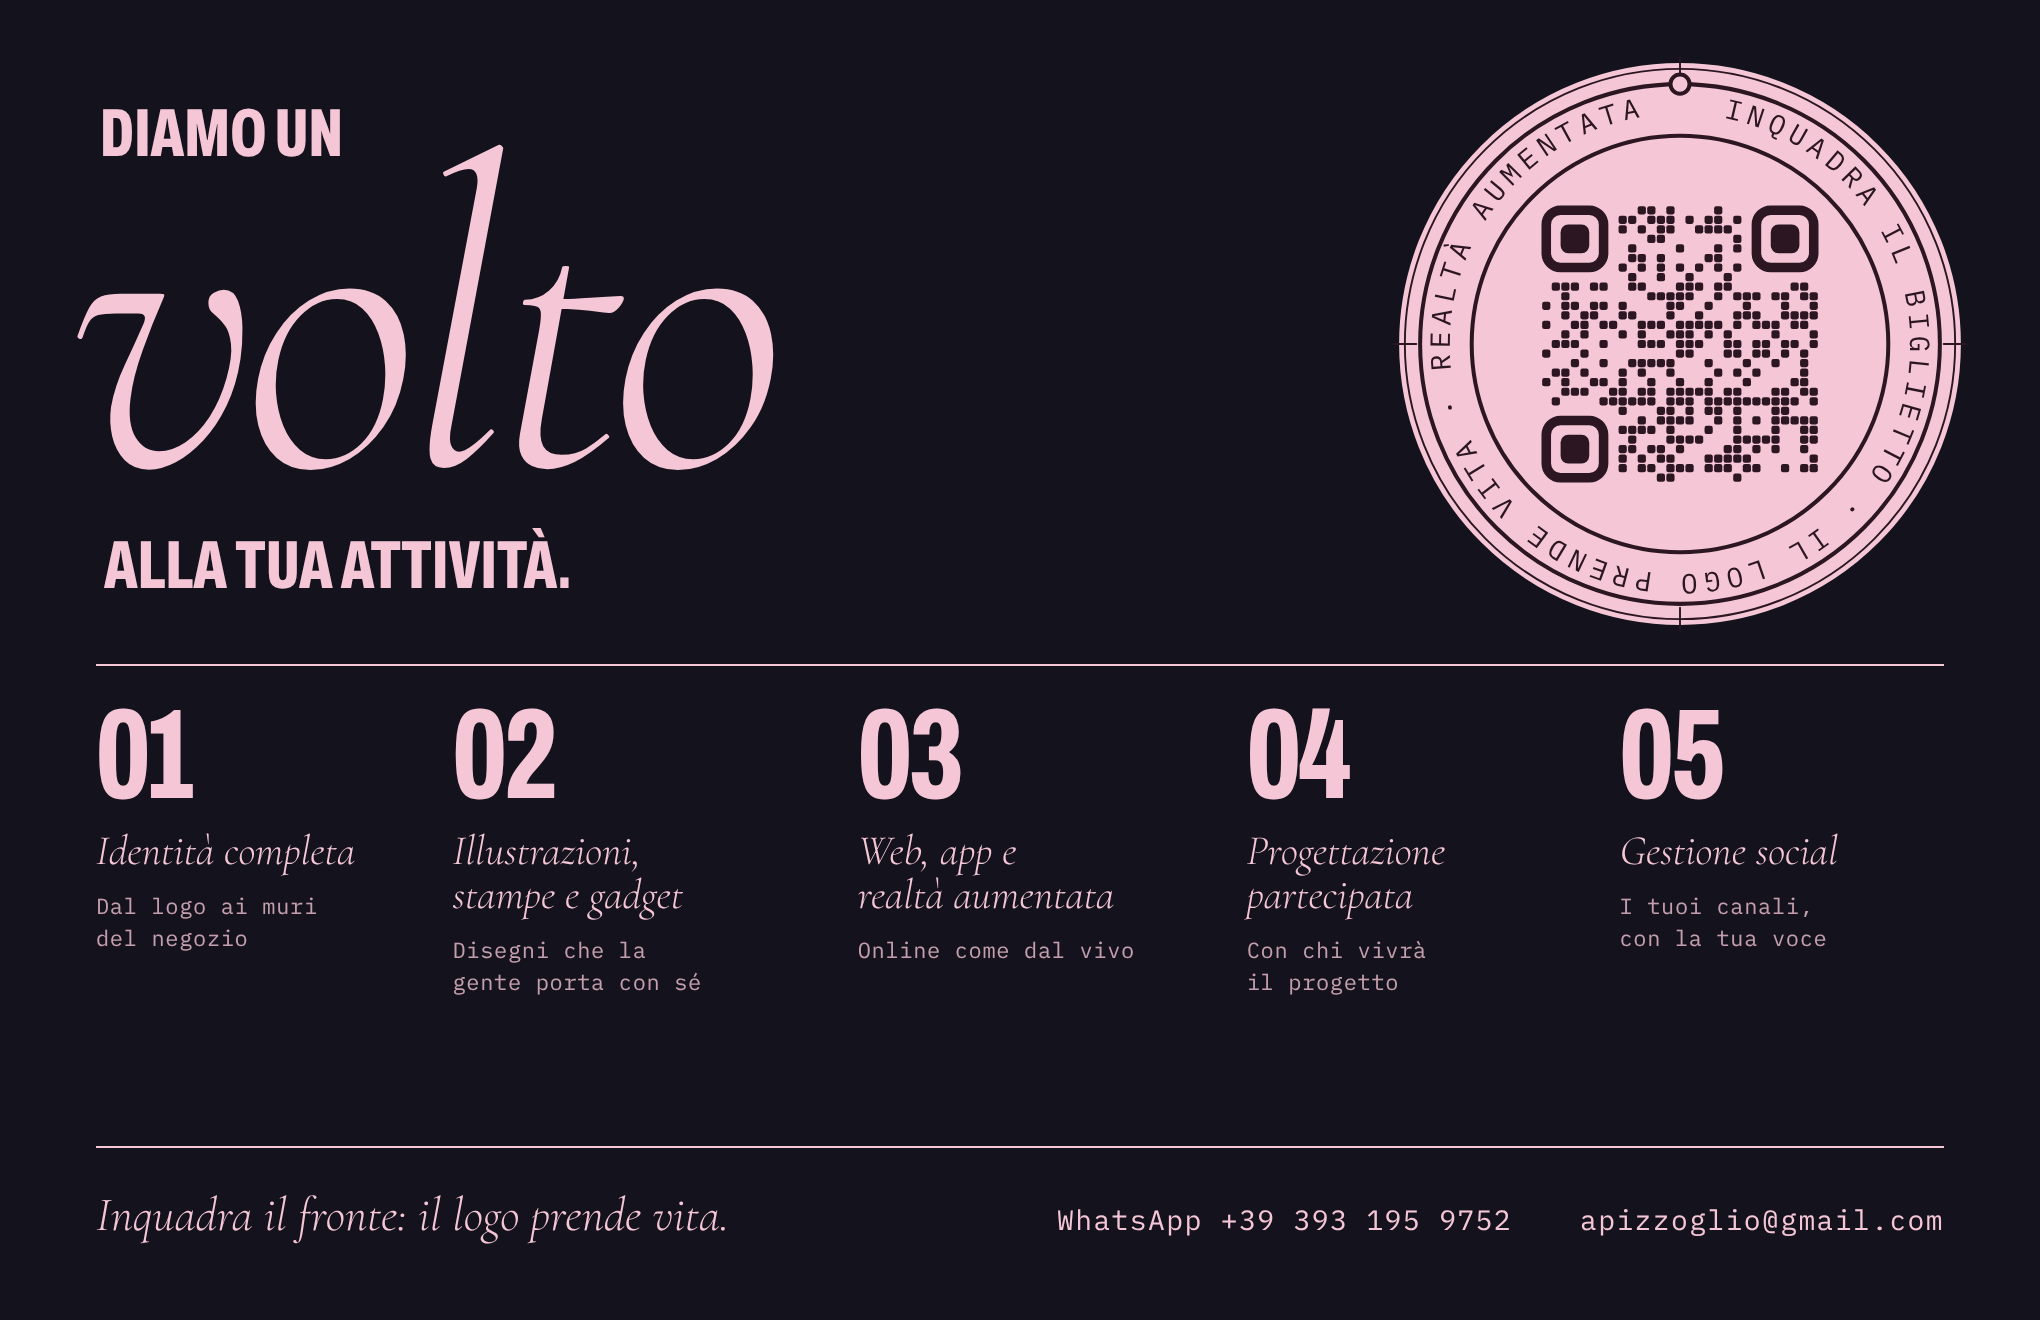
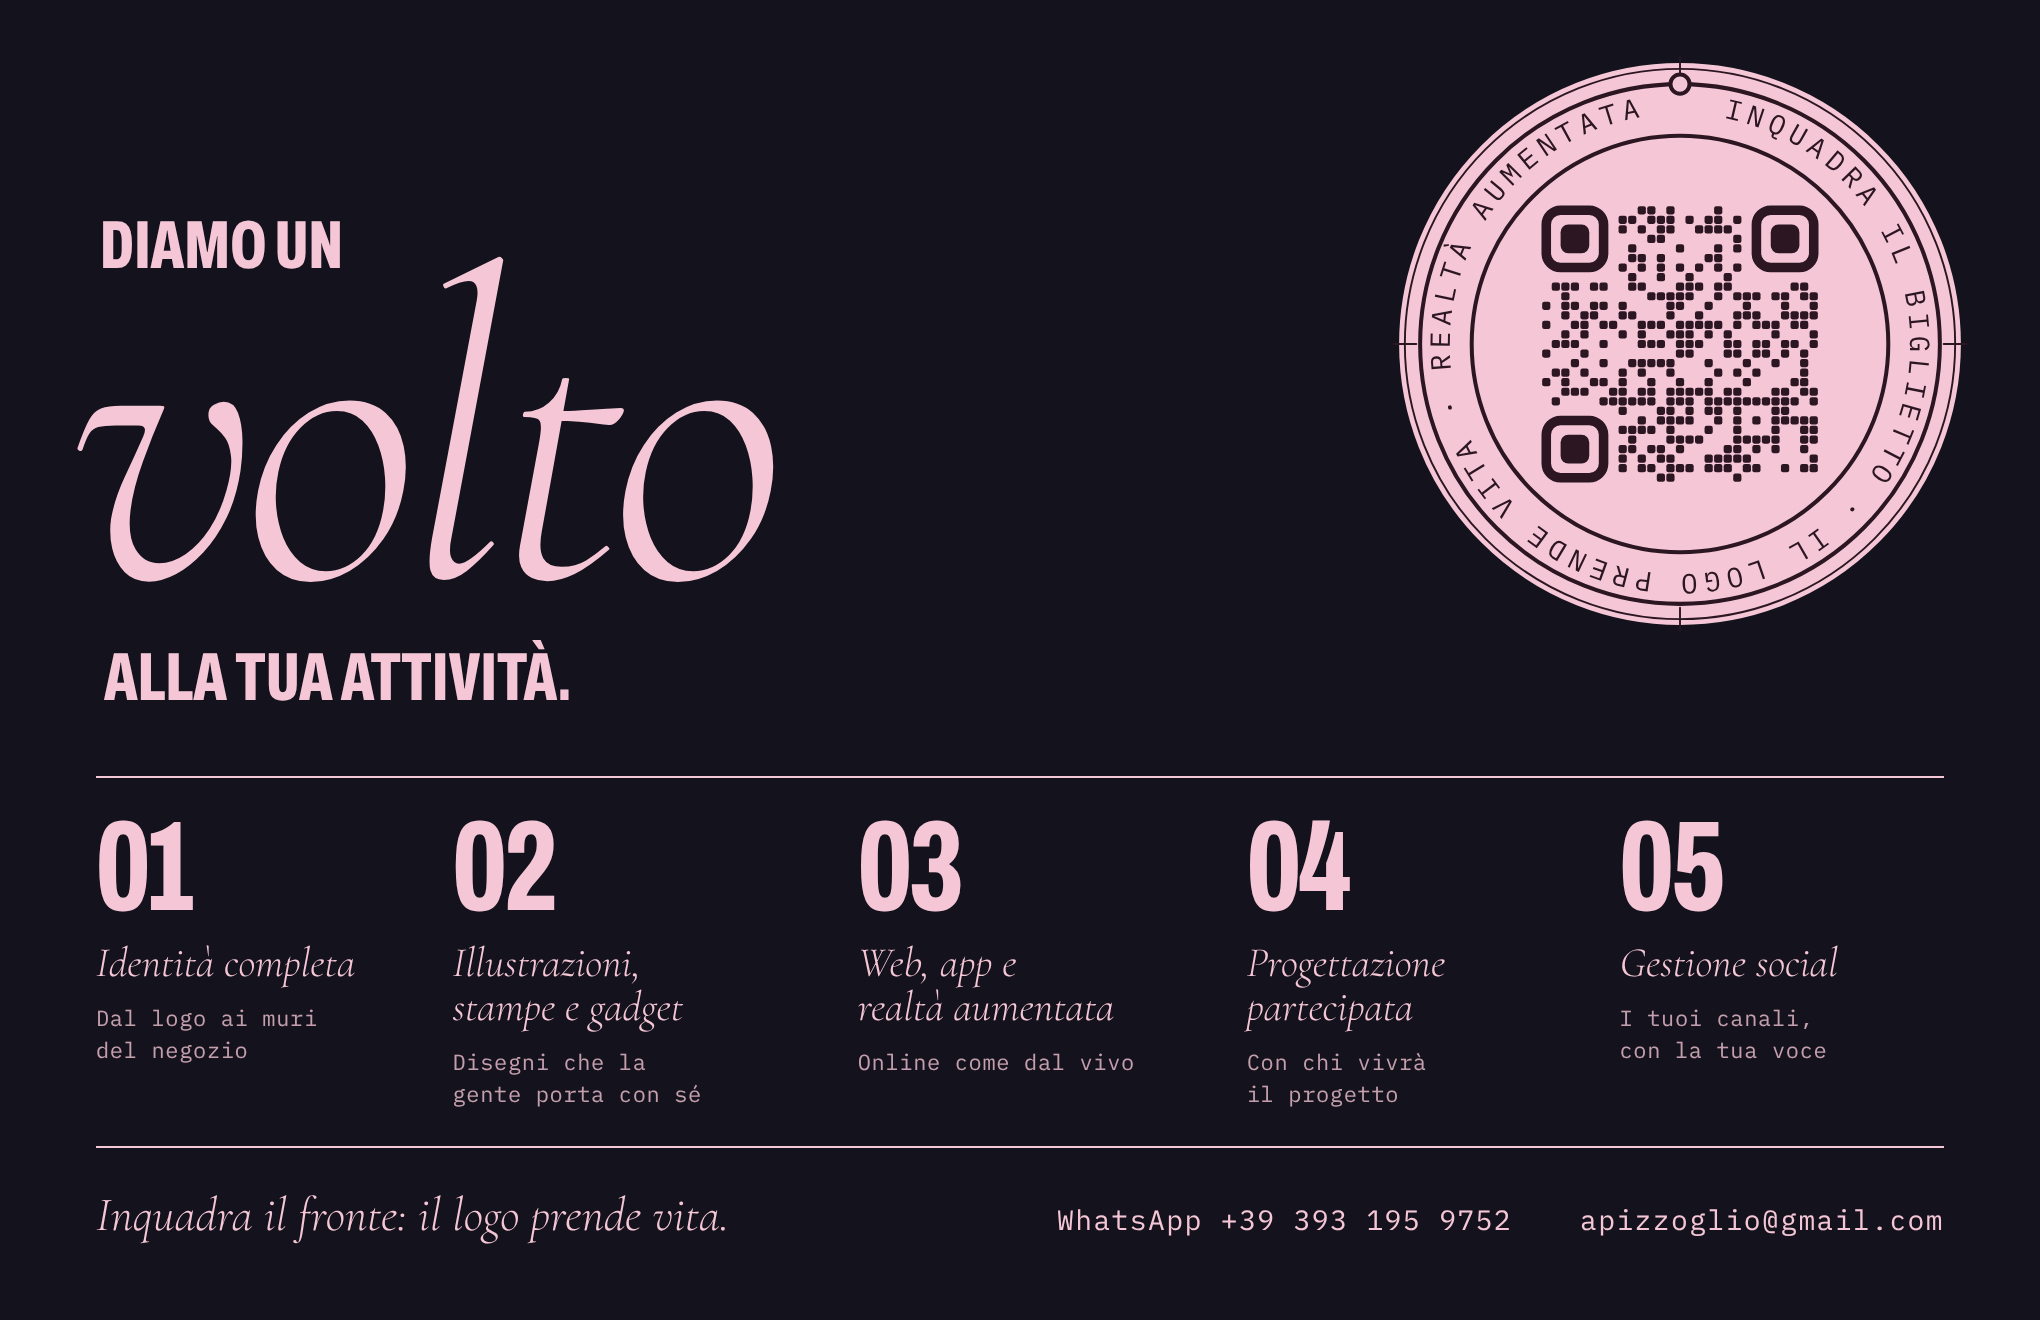
Biglietto, retro fusione: il QR resta, claim, filetto e indice scendono a riempire il vuoto
Claude-Session: https://claude.ai/code/session_017BM5XjeHCbJ6zegj574eXv

diff --git a/ar-print/varianti/retro-fusione/biglietto-retro.html b/ar-print/varianti/retro-fusione/biglietto-retro.html
@@ -16,11 +16,11 @@
   .u { text-transform: uppercase; letter-spacing: .2em; font-size: 12px; }
 
   .sigillo { position: absolute; right: 30px; top: 22px; width: 300px; height: 300px; }
-  .prima { position: absolute; left: 50px; top: 52px; font-size: 34px; }
-  .volto { position: absolute; left: 34px; top: 74px; font-size: 220px; line-height: .8; letter-spacing: -.03em; white-space: nowrap; }
-  .dopo { position: absolute; left: 52px; top: 268px; font-size: 34px; }
+  .prima { position: absolute; left: 50px; top: 108px; font-size: 34px; }
+  .volto { position: absolute; left: 34px; top: 130px; font-size: 220px; line-height: .8; letter-spacing: -.03em; white-space: nowrap; }
+  .dopo { position: absolute; left: 52px; top: 324px; font-size: 34px; }
   .linea { position: absolute; left: 48px; right: 48px; height: 0; border-top: 1px solid #F5C7D6; }
-  .indice { position: absolute; left: 48px; right: 48px; top: 352px; list-style: none; display: grid; grid-template-columns: 1fr 1.15fr 1.1fr 1.05fr 1fr; gap: 16px; }
+  .indice { position: absolute; left: 48px; right: 48px; top: 408px; list-style: none; display: grid; grid-template-columns: 1fr 1.15fr 1.1fr 1.05fr 1fr; gap: 16px; }
   .indice .a { display: block; font-size: 64px; line-height: .8; letter-spacing: -.02em; }
   .indice .c { display: block; margin-top: 12px; font-size: 21px; line-height: 1.05; text-wrap: balance; }
   .indice .m { display: block; margin-top: 9px; font-size: 11px; line-height: 1.45; letter-spacing: .03em; opacity: .78; text-wrap: balance; }
@@ -34,7 +34,7 @@
   <p class="prima a">Diamo un</p>
   <p class="volto c">volto</p>
   <p class="dopo a">alla tua attività.</p>
-  <div class="linea" style="top:332px"></div>
+  <div class="linea" style="top:388px"></div>
   <ol class="indice"><li><span class="a">01</span><span class="c">Identità completa</span><span class="m">Dal logo ai muri del negozio</span></li><li><span class="a">02</span><span class="c">Illustrazioni, stampe e gadget</span><span class="m">Disegni che la gente porta con sé</span></li><li><span class="a">03</span><span class="c">Web, app e realtà aumentata</span><span class="m">Online come dal vivo</span></li><li><span class="a">04</span><span class="c">Progettazione partecipata</span><span class="m">Con chi vivrà il progetto</span></li><li><span class="a">05</span><span class="c">Gestione social</span><span class="m">I tuoi canali, con la tua voce</span></li></ol>
   <div class="linea" style="bottom:86px"></div>
   <div class="piede"><p class="c">Inquadra il fronte: il logo prende vita.</p><div class="m"><p>WhatsApp +39 393 195 9752</p><p>apizzoglio@gmail.com</p></div></div>

diff --git a/scripts/biglietto-retri.py b/scripts/biglietto-retri.py
@@ -101,11 +101,11 @@ SIGILLO = re.search(r'<svg class="sigillo".*?</svg>', open(os.path.join(QUI, '..
 DETTAGLI = ['Dal logo ai muri del negozio', 'Disegni che la gente porta con sé', 'Online come dal vivo', 'Con chi vivrà il progetto', 'I tuoi canali, con la tua voce']
 scrivi('retro-fusione', NOTTE, ROSA, f'''
   .sigillo {{ position: absolute; right: 30px; top: 22px; width: 300px; height: 300px; }}
-  .prima {{ position: absolute; left: 50px; top: 52px; font-size: 34px; }}
-  .volto {{ position: absolute; left: 34px; top: 74px; font-size: 220px; line-height: .8; letter-spacing: -.03em; white-space: nowrap; }}
-  .dopo {{ position: absolute; left: 52px; top: 268px; font-size: 34px; }}
+  .prima {{ position: absolute; left: 50px; top: 108px; font-size: 34px; }}
+  .volto {{ position: absolute; left: 34px; top: 130px; font-size: 220px; line-height: .8; letter-spacing: -.03em; white-space: nowrap; }}
+  .dopo {{ position: absolute; left: 52px; top: 324px; font-size: 34px; }}
   .linea {{ position: absolute; left: 48px; right: 48px; height: 0; border-top: 1px solid {ROSA}; }}
-  .indice {{ position: absolute; left: 48px; right: 48px; top: 352px; list-style: none; display: grid; grid-template-columns: 1fr 1.15fr 1.1fr 1.05fr 1fr; gap: 16px; }}
+  .indice {{ position: absolute; left: 48px; right: 48px; top: 408px; list-style: none; display: grid; grid-template-columns: 1fr 1.15fr 1.1fr 1.05fr 1fr; gap: 16px; }}
   .indice .a {{ display: block; font-size: 64px; line-height: .8; letter-spacing: -.02em; }}
   .indice .c {{ display: block; margin-top: 12px; font-size: 21px; line-height: 1.05; text-wrap: balance; }}
   .indice .m {{ display: block; margin-top: 9px; font-size: 11px; line-height: 1.45; letter-spacing: .03em; opacity: .78; text-wrap: balance; }}
@@ -116,7 +116,7 @@ scrivi('retro-fusione', NOTTE, ROSA, f'''
   <p class="prima a">Diamo un</p>
   <p class="volto c">volto</p>
   <p class="dopo a">alla tua attività.</p>
-  <div class="linea" style="top:332px"></div>
+  <div class="linea" style="top:388px"></div>
   <ol class="indice">{"".join(f'<li><span class="a">{i+1:02d}</span><span class="c">{t}</span><span class="m">{x}</span></li>' for i, (t, x) in enumerate(zip(SERVIZI, DETTAGLI)))}</ol>
   <div class="linea" style="bottom:86px"></div>
   <div class="piede"><p class="c">Inquadra il fronte: il logo prende vita.</p><div class="m"><p>WhatsApp +39 393 195 9752</p><p>apizzoglio@gmail.com</p></div></div>''')
